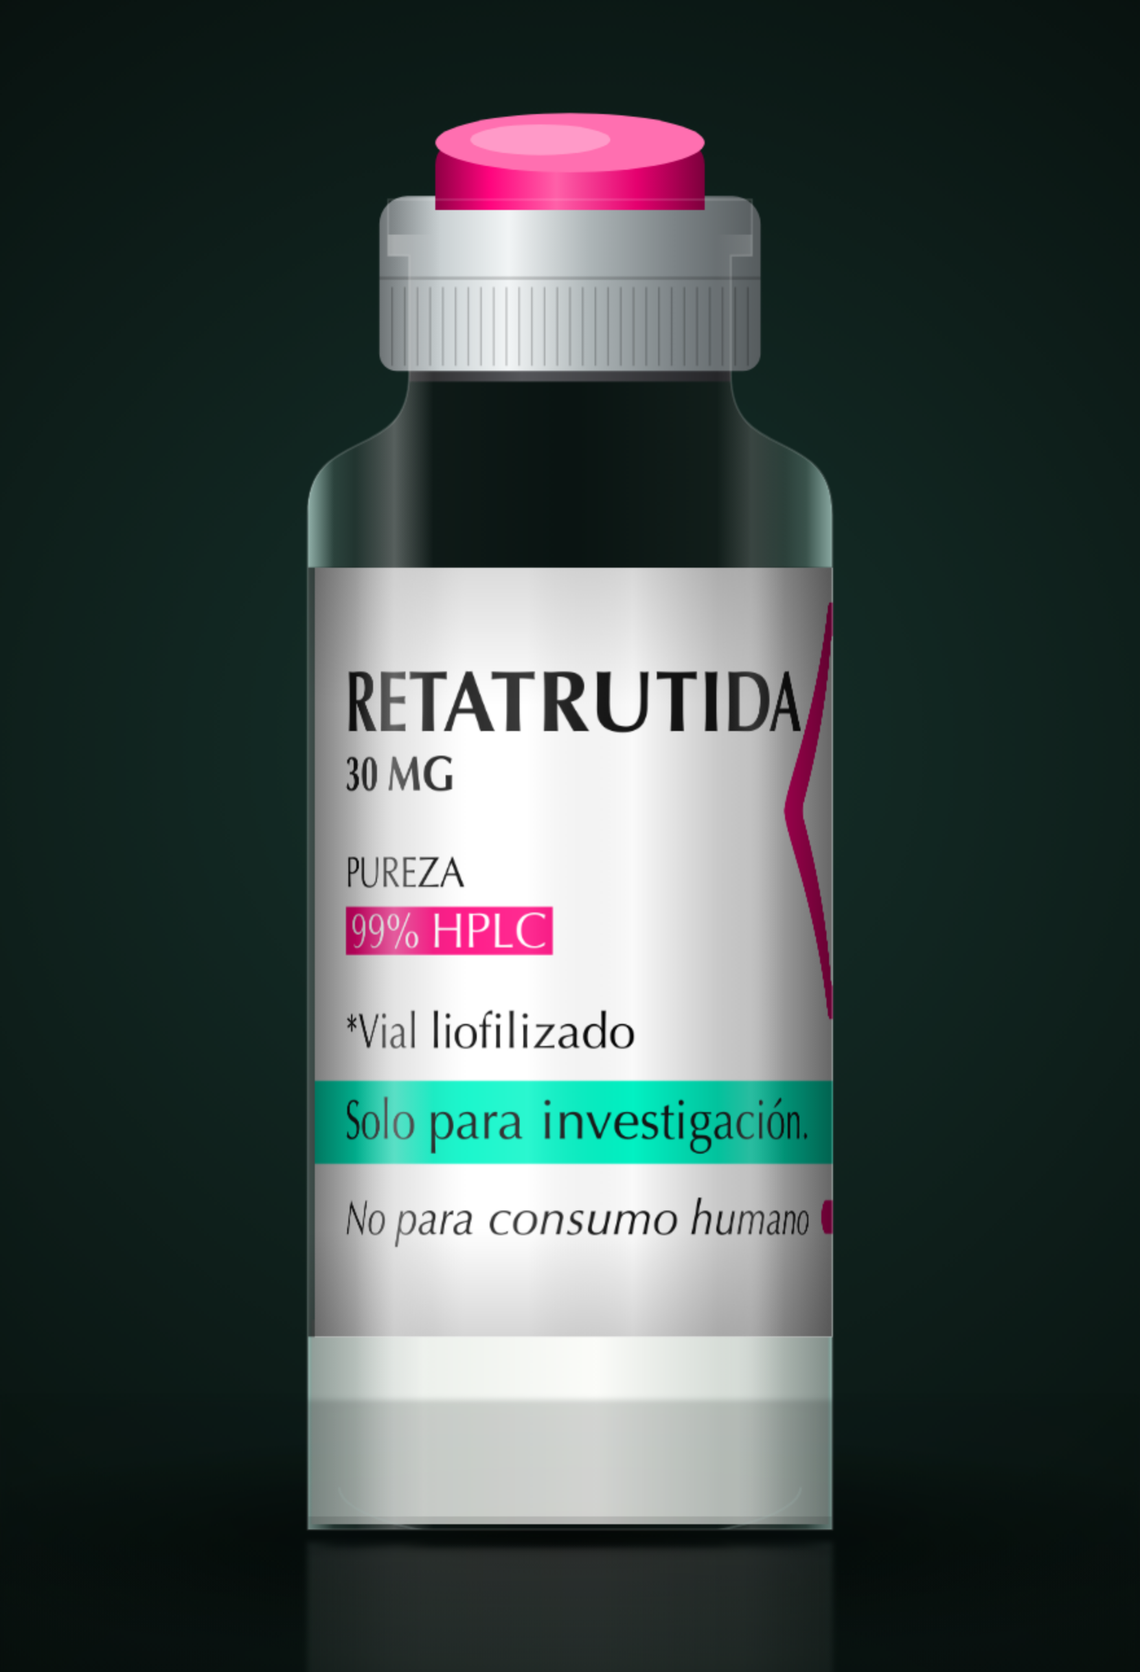
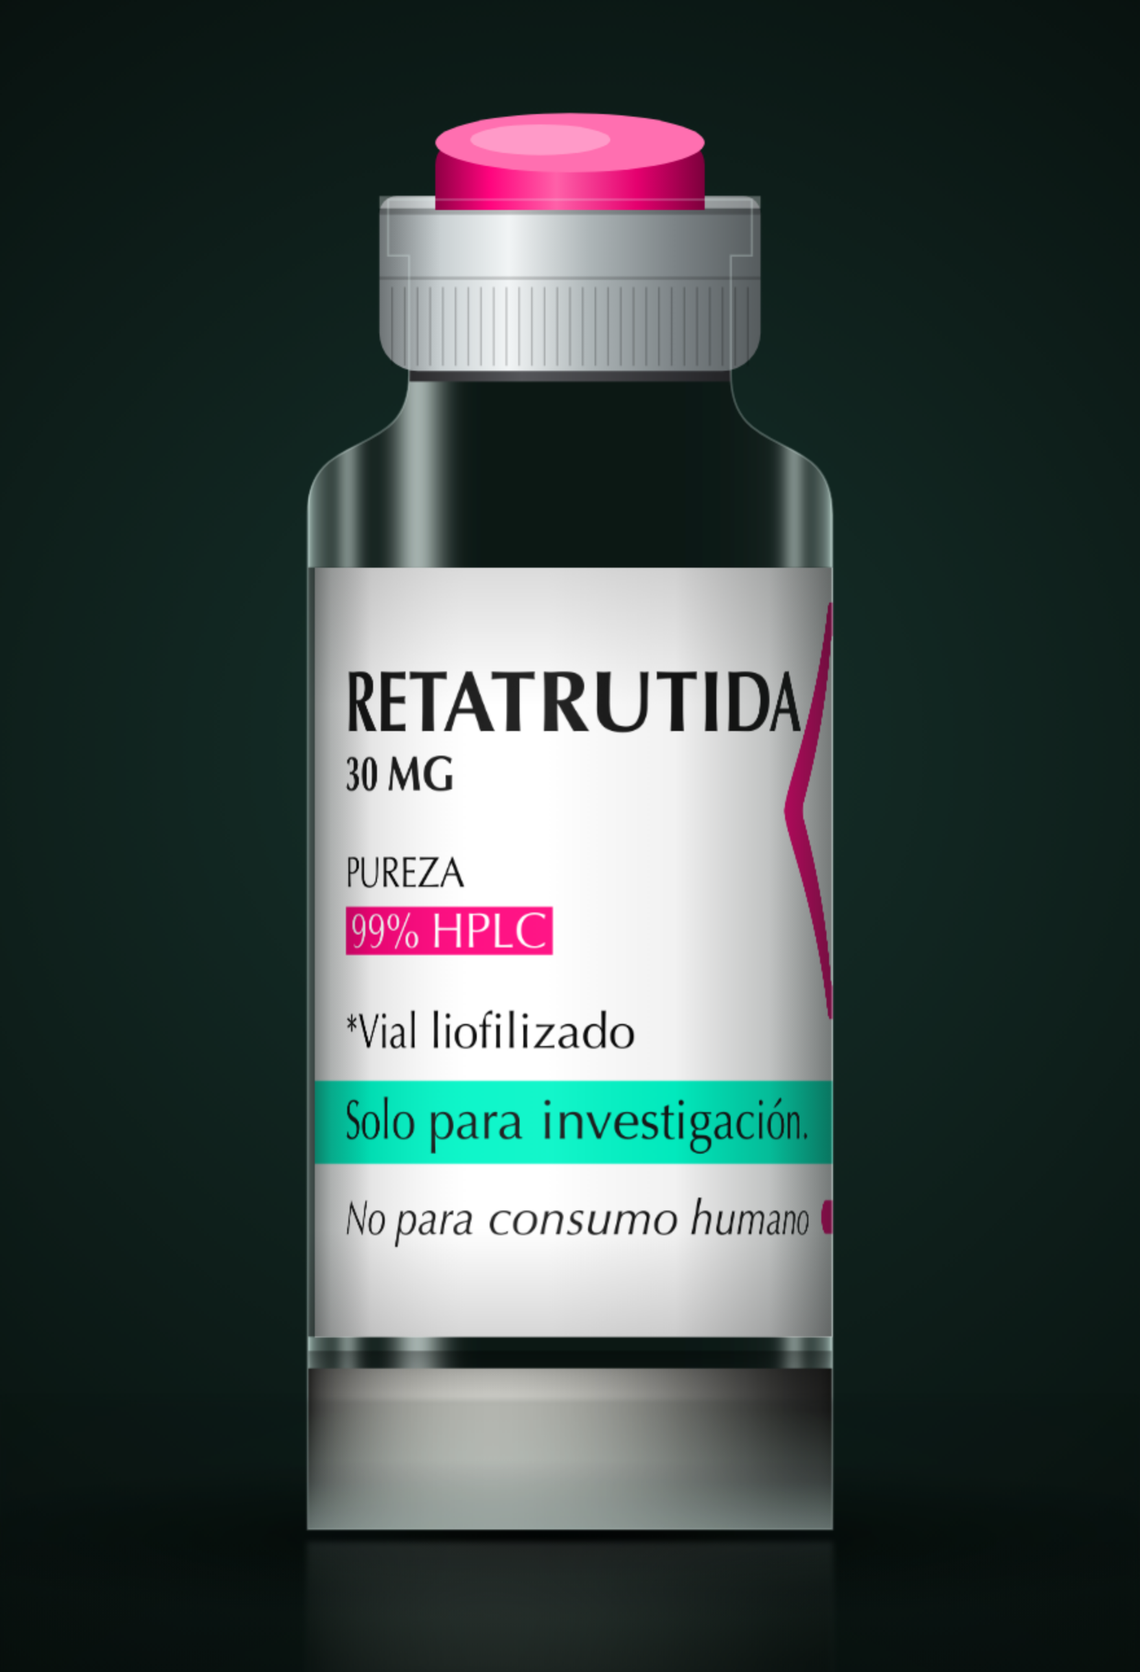
feat(rediseno): shader del hero portado a JS plano y vial más creíble
Hero: el componente de 21st.dev (Neuro Noise, Paper Shaders, Apache-2.0) es
React, y este repo no tiene package.json, Tailwind ni TypeScript, así que
copiarlo a /components/ui no habría compilado nada. El shader no necesita
React: se porta a JS plano con el GLSL idéntico, incluido el empaquetado en
vec4 que lo mantiene bajo el mínimo de uniforms de WebGL1.

Recoloreado a la marca: el preset venía en cian y violeta, ahora va de fondo
de marca a aqua #02F6C8 a magenta #FF047E. Se añade prefers-reduced-motion,
que el original no contempla: con esa preferencia se pinta un fotograma y no
se anima. DPR limitado a 1.5 y techo de 1.4 Mpx, pausa fuera de pantalla y
con la pestaña oculta, y si WebGL falla el canvas se oculta sin romper nada.

Vial: los degradados a ojo se sustituyen por sombreado calculado por columna.
El grosor óptico sale de 1/cos(theta) y el filo del canto de un Fresnel
(1-cos)^3, que es lo que de verdad lee como vidrio; antes parecía plástico
opaco. La etiqueta se aclara a papel mate en vez de cromo, y la torta
liofilizada se apaga tras la pared del vial con canto recto, que es lo
correcto en vista frontal.

Queda anotado en rediseno/react/README.md el estado real del proyecto y cómo
montarlo con shadcn si algún día se hace el front en Next.js.

Claude-Session: https://claude.ai/code/session_01WYKnPW9vsfA4iToczreM7S

diff --git a/rediseno/index.html b/rediseno/index.html
@@ -93,7 +93,12 @@ a{color:inherit}
 .cart .count{position:absolute;top:-6px;right:-6px;min-width:18px;height:18px;padding:0 4px;border-radius:9px;background:var(--accent);color:var(--on-accent);font-family:var(--f-mono);font-size:10px;font-weight:600;display:grid;place-items:center}
 
 /* ── hero ───────────────────────────────────────────────────── */
-.hero{border-bottom:1px solid var(--line);background:linear-gradient(180deg,var(--surface) 0%,var(--paper) 100%)}
+.hero{position:relative;isolation:isolate;overflow:hidden;border-bottom:1px solid var(--line);background:linear-gradient(180deg,var(--surface) 0%,var(--paper) 100%)}
+.shader-bg{position:absolute;inset:0;z-index:-2;display:block;width:100%;height:100%;opacity:.85}
+.shader-scrim{position:absolute;inset:0;z-index:-1;pointer-events:none;
+  background:linear-gradient(100deg,var(--paper) 4%,color-mix(in srgb,var(--paper) 82%,transparent) 34%,color-mix(in srgb,var(--paper) 30%,transparent) 68%,transparent 100%),
+             linear-gradient(0deg,var(--paper) 0%,transparent 26%)}
+.hero .wrap{position:relative;z-index:1}
 .hero .wrap{display:grid;grid-template-columns:1.02fr .98fr;gap:clamp(28px,5vw,64px);align-items:center;padding-block:clamp(44px,7vw,80px)}
 .hero h1{font-size:clamp(38px,5.4vw,64px);font-weight:800;margin-block:16px 18px}
 .hero h1 em{font-style:normal;color:var(--accent-text)}
@@ -332,6 +337,8 @@ footer .fine{font-family:var(--f-mono);font-size:10.5px;opacity:.5;display:flex;
 </nav>
 
 <header class="hero" id="top">
+  <canvas class="shader-bg" id="shader" aria-hidden="true"></canvas>
+  <div class="shader-scrim" aria-hidden="true"></div>
   <div class="wrap">
     <div>
       <span class="eyebrow">Lote PYS-2609-RT · liberado 04 sep 2026</span>
@@ -767,6 +774,127 @@ footer .fine{font-family:var(--f-mono);font-size:10.5px;opacity:.5;display:flex;
   }
   [mg,ml,dose].forEach(function(el){ el && el.addEventListener('input',calc); });
   calc();
+})();
+</script>
+
+<script>
+/* Shader "Neuro Noise" del Shader Builder de 21st.dev (Paper Shaders, Apache-2.0),
+   portado de React a JS plano: el GLSL es idéntico, lo que cambia es el ciclo de
+   vida. Recoloreado a la paleta de PYS: magenta #FF047E y aqua #02F6C8 sobre
+   fondo de marca. Añadido que el original no trae: respeta prefers-reduced-motion. */
+(function(){
+  var canvas = document.getElementById('shader');
+  if (!canvas) return;
+  var gl = canvas.getContext('webgl', { antialias:false, powerPreference:'low-power' });
+  if (!gl) { canvas.style.display = 'none'; return; }
+
+  var VERT = 'attribute vec2 a_position;void main(){gl_Position=vec4(a_position,0.0,1.0);}';
+  var FRAG = [
+  '#ifdef GL_FRAGMENT_PRECISION_HIGH','precision highp float;','#else','precision mediump float;','#endif',
+  'uniform vec3 u_colors[8];',
+  'uniform vec4 u_scene;','uniform vec4 u_shape;','uniform vec4 u_surface;','uniform vec4 u_finish;',
+  'uniform vec4 u_transform;','uniform vec4 u_space;',
+  '#define u_resolution u_scene.xy','#define u_time u_scene.z','#define u_colorCount u_scene.w',
+  '#define u_scale u_shape.x','#define u_intensity u_shape.y','#define u_paramA u_shape.z','#define u_warp u_shape.w',
+  '#define u_detail u_surface.x','#define u_contrast u_surface.y','#define u_brightness u_surface.z','#define u_saturation u_surface.w',
+  '#define u_vignette u_finish.y','#define u_blur u_finish.z','#define u_grain u_finish.w',
+  '#ifdef GL_FRAGMENT_PRECISION_HIGH','#define u_seed u_transform.x','#else','#define u_seed mod(u_transform.x,31.0)','#endif',
+  '#define u_rotate u_transform.y','#define u_drift u_transform.z',
+  '#define u_offset u_space.xy',
+  'float hash21(vec2 p){',
+  '#ifndef GL_FRAGMENT_PRECISION_HIGH','  p=mod(p,31.0);','#endif',
+  '  p=fract(p*vec2(234.34,435.345));p+=dot(p,p+34.23);return fract(p.x*p.y);}',
+  'float grainHash(vec2 p){vec3 p3=fract(vec3(p.xyx)*0.1031);p3+=dot(p3,p3.yzx+33.33);return fract((p3.x+p3.y)*p3.z);}',
+  'float noise(vec2 p){vec2 i=floor(p);vec2 f=fract(p);vec2 u=f*f*(3.0-2.0*f);',
+  '  return mix(mix(hash21(i),hash21(i+vec2(1.0,0.0)),u.x),mix(hash21(i+vec2(0.0,1.0)),hash21(i+vec2(1.0,1.0)),u.x),u.y);}',
+  'float fbm(vec2 p){float v=0.0;float a=0.5;for(int i=0;i<5;i++){v+=a*noise(p);p=p*2.03+vec2(17.0,9.2);a*=0.5;}return v;}',
+  'vec3 palette(float x){float n=max(u_colorCount-1.0,1.0);float f=clamp(x,0.0,1.0)*n;vec3 col=u_colors[0];',
+  '  for(int i=0;i<7;i++){if(float(i)<n)col=mix(col,u_colors[i+1],smoothstep(0.0,1.0,clamp(f-float(i),0.0,1.0)));}return col;}',
+  'vec3 shade(vec2 uv,vec2 p,float t){vec2 q=p*(1.6+u_intensity*2.4);float field=0.0;float weight=0.55;',
+  '  for(int i=0;i<6;i++){float fi=float(i);',
+  '    q+=vec2(sin(q.y*(1.7+fi*0.09)+t*(0.35+fi*0.04)+u_seed),cos(q.x*(1.5+fi*0.11)-t*(0.28+fi*0.03)))*(0.22+u_intensity*0.14);',
+  '    float filaments=abs(sin(q.x+q.y+fi*0.72));field+=weight/(0.08+filaments);weight*=0.62;q=q.yx*vec2(-1.08,1.04);}',
+  '  float glow=1.0-exp(-field*(0.018+u_paramA*0.04));return palette(clamp(glow,0.0,1.0));}',
+  'void main(){vec2 uv=gl_FragCoord.xy/u_resolution.xy;vec2 screenUv=uv;',
+  '  vec2 p=(gl_FragCoord.xy-0.5*u_resolution.xy)/min(u_resolution.x,u_resolution.y);',
+  '  uv=p*min(u_resolution.x,u_resolution.y)/u_resolution.xy+0.5;p*=u_scale;',
+  '  if(abs(u_rotate)>0.0001){float cr=cos(u_rotate),sr=sin(u_rotate);p=mat2(cr,-sr,sr,cr)*p;}',
+  '  p+=u_offset;',
+  '  if(u_drift>0.0001)p+=u_drift*vec2(sin(u_time*0.31),cos(u_time*0.23));',
+  '  if(u_warp>0.0)p+=u_warp*(vec2(fbm(p*u_detail+u_seed),fbm(p*u_detail+vec2(5.2,1.3)))-0.5);',
+  '  vec3 col;',
+  '  if(u_blur>0.0){float e=u_blur;float pe=e*u_scale;vec2 uvE=vec2(e)*min(u_resolution.x,u_resolution.y)/u_resolution.xy;',
+  '    col=shade(uv,p,u_time)*0.36;',
+  '    col+=shade(uv+vec2(uvE.x,0.0),p+vec2(pe,0.0),u_time)*0.16;',
+  '    col+=shade(uv-vec2(uvE.x,0.0),p-vec2(pe,0.0),u_time)*0.16;',
+  '    col+=shade(uv+vec2(0.0,uvE.y),p+vec2(0.0,pe),u_time)*0.16;',
+  '    col+=shade(uv-vec2(0.0,uvE.y),p-vec2(0.0,pe),u_time)*0.16;',
+  '  }else{col=shade(uv,p,u_time);}',
+  '  if(abs(u_contrast-1.0)>0.0001)col=(col-0.5)*u_contrast+0.5;',
+  '  if(abs(u_saturation-1.0)>0.0001){float luma=dot(col,vec3(0.299,0.587,0.114));col=mix(vec3(luma),col,u_saturation);}',
+  '  if(abs(u_brightness)>0.0001)col+=u_brightness;',
+  '  if(u_vignette>0.0001){float vd=length(screenUv-0.5)*1.41421356;col*=1.0-u_vignette*smoothstep(0.35,1.0,vd);}',
+  '  if(u_grain>0.0001)col+=(grainHash(gl_FragCoord.xy+vec2(u_seed*17.0,u_seed*31.0))-0.5)*u_grain;',
+  '  gl_FragColor=vec4(clamp(col,0.0,1.0),1.0);}'
+  ].join('\n');
+
+  function compilar(tipo, src){ var sh=gl.createShader(tipo); gl.shaderSource(sh,src); gl.compileShader(sh); return sh; }
+  var prog=gl.createProgram(), vs=compilar(gl.VERTEX_SHADER,VERT), fs=compilar(gl.FRAGMENT_SHADER,FRAG);
+  gl.attachShader(prog,vs); gl.attachShader(prog,fs); gl.linkProgram(prog);
+  if(!gl.getProgramParameter(prog,gl.LINK_STATUS)){ canvas.style.display='none'; return; }
+  gl.deleteShader(vs); gl.deleteShader(fs); gl.useProgram(prog);
+
+  var buf=gl.createBuffer();
+  gl.bindBuffer(gl.ARRAY_BUFFER,buf);
+  gl.bufferData(gl.ARRAY_BUFFER,new Float32Array([-1,-1,3,-1,-1,3]),gl.STATIC_DRAW);
+  var loc=gl.getAttribLocation(prog,'a_position');
+  gl.enableVertexAttribArray(loc); gl.vertexAttribPointer(loc,2,gl.FLOAT,false,0,0);
+
+  var u = {};
+  ['colors','scene','shape','surface','finish','transform','space'].forEach(function(n){
+    u[n]=gl.getUniformLocation(prog,'u_'+n);
+  });
+
+  // Paleta PYS, en lugar del cian y violeta que trae el preset
+  var COLORES=[[0.016,0.063,0.055],[0.008,0.965,0.784],[1.0,0.016,0.494],[1.0,0.886,0.937],
+               [1.0,0.886,0.937],[1.0,0.886,0.937],[1.0,0.886,0.937],[1.0,0.886,0.937]];
+  var plano=[]; COLORES.forEach(function(c){ plano.push(c[0],c[1],c[2]); });
+  gl.uniform3fv(u.colors,new Float32Array(plano));
+  gl.uniform4f(u.shape, 1.26, 0.35, 0.28, 0.0);      // escala, intensidad, paramA, warp
+  gl.uniform4f(u.surface, 1.824, 1.02, -0.06, 1.15); // detalle, contraste, brillo, saturación
+  gl.uniform4f(u.finish, 0.0, 0.22, 0.0012, 0.075);  // hue, viñeta, blur, grano
+  gl.uniform4f(u.transform, 1.0, 0.0, 0.204, 0.0);   // semilla, rotación, deriva, oklab
+
+  var quieto = matchMedia('(prefers-reduced-motion: reduce)').matches;
+  var inicio = performance.now(), raf = 0, visible = true, enPantalla = true;
+
+  function medir(){
+    var r = canvas.getBoundingClientRect();
+    var dpr = Math.min(window.devicePixelRatio || 1, 1.5);
+    var w = Math.max(1, Math.round(r.width * dpr)), h = Math.max(1, Math.round(r.height * dpr));
+    var tope = Math.min(1, Math.sqrt(1400000 / Math.max(1, w * h)));
+    w = Math.max(1, Math.round(w * tope)); h = Math.max(1, Math.round(h * tope));
+    if (canvas.width !== w || canvas.height !== h){ canvas.width=w; canvas.height=h; gl.viewport(0,0,w,h); }
+  }
+  function pintar(ahora){
+    raf = 0;
+    medir();
+    var t = quieto ? 6.2 : ((ahora - inicio) / 1000) * 0.86;
+    gl.uniform4f(u.scene, canvas.width, canvas.height, t, 4.0);
+    gl.uniform4f(u.space, 0, 0, 0, 0);
+    gl.drawArrays(gl.TRIANGLES, 0, 3);
+    if (!quieto && visible && enPantalla) raf = requestAnimationFrame(pintar);
+  }
+  function arrancar(){ if (raf === 0 && visible && enPantalla) raf = requestAnimationFrame(pintar); }
+  function parar(){ if (raf !== 0){ cancelAnimationFrame(raf); raf = 0; } }
+
+  new ResizeObserver(function(){ medir(); if (quieto) requestAnimationFrame(pintar); else arrancar(); }).observe(canvas);
+  new IntersectionObserver(function(e){ enPantalla = e[0] ? e[0].isIntersecting : true; enPantalla ? arrancar() : parar(); }).observe(canvas);
+  document.addEventListener('visibilitychange', function(){
+    visible = document.visibilityState === 'visible';
+    visible ? arrancar() : parar();
+  });
+  requestAnimationFrame(pintar);
 })();
 </script>
 

diff --git a/rediseno/mocks/generar-vial.js b/rediseno/mocks/generar-vial.js
@@ -29,9 +29,9 @@ window.render = () => new Promise(res => {
 
     // ── sombra proyectada
     g.save();
-    g.translate(cx, base + 14); g.scale(1, 0.17);
+    g.translate(cx, base + 8); g.scale(1, 0.12);
     const sh = g.createRadialGradient(0, 0, 10, 0, 0, R * 2.6);
-    sh.addColorStop(0, 'rgba(0,0,0,.72)'); sh.addColorStop(1, 'rgba(0,0,0,0)');
+    sh.addColorStop(0, 'rgba(0,0,0,.85)'); sh.addColorStop(.45, 'rgba(0,0,0,.36)'); sh.addColorStop(1, 'rgba(0,0,0,0)');
     g.fillStyle = sh; g.beginPath(); g.arc(0, 0, R * 2.6, 0, 7); g.fill();
     g.restore();
 
@@ -47,30 +47,58 @@ window.render = () => new Promise(res => {
     cuerpo.bezierCurveTo(cx + rNeck, yBody - mm(1.4), cx + R, yNeck + mm(1.4), cx + R, yBody);
     cuerpo.lineTo(cx + R, base); cuerpo.closePath();
 
+    // ── vidrio: sombreado calculado por columna en vez de degradados a ojo.
+    // cos(theta) da el grosor óptico (mas camino = mas tinte) y el Fresnel
+    // (1-cos)^3 da el filo brillante del canto, que es lo que lee como vidrio.
     g.save(); g.clip(cuerpo);
-    const vidrio = g.createLinearGradient(cx - R, 0, cx + R, 0);
-    vidrio.addColorStop(0, '#93B2AB'); vidrio.addColorStop(.05, '#2C433D');
-    vidrio.addColorStop(.16, '#101C19'); vidrio.addColorStop(.5, '#0A1412');
-    vidrio.addColorStop(.84, '#13201C'); vidrio.addColorStop(.95, '#3A534C');
-    vidrio.addColorStop(1, '#8AA9A2');
-    g.fillStyle = vidrio; g.fill(cuerpo);
+    const bgCol = [10, 20, 17];         // el fondo que se ve a través del vial
+    const tint = [22, 46, 40];          // vidrio tipo I con tinte verdoso
+    const specAng = -0.62;              // llave a la izquierda
+    for (let i = 0; i < R * 2; i++) {
+      const x = i - R + .5, t = Math.max(-.999, Math.min(.999, x / R));
+      const cosT = Math.sqrt(1 - t * t);
+      const phi = Math.asin(t);
+      const grosor = Math.min(1 / Math.max(cosT, .05), 9) / 9;      // 0..1
+      const fres = Math.pow(1 - cosT, 3);
+      const spec = Math.pow(Math.max(0, Math.cos((phi - specAng) * 2.6)), 22);
+      const spec2 = Math.pow(Math.max(0, Math.cos((phi - 1.02) * 3.1)), 30);
+      const c = [0, 1, 2].map(k => {
+        let v = bgCol[k] + (tint[k] - bgCol[k]) * Math.pow(grosor, .8);
+        v += fres * 190;
+        v += spec * 150 + spec2 * 90;
+        return Math.round(Math.max(0, Math.min(255, v)));
+      });
+      g.fillStyle = 'rgb(' + c[0] + ',' + c[1] + ',' + c[2] + ')';
+      g.fillRect(cx + x - .5, yAt(38), 1.6, mm(38));
+    }
 
-    // torta liofilizada en el fondo
-    const yCake = yAt(6.2);
-    const cake = g.createLinearGradient(cx - R, 0, cx + R, 0);
-    cake.addColorStop(0, '#8E9B96'); cake.addColorStop(.22, '#EDF1EC');
-    cake.addColorStop(.55, '#FBFCF9'); cake.addColorStop(.82, '#D2D9D3'); cake.addColorStop(1, '#7F8C87');
-    g.fillStyle = cake;
-    g.beginPath();
-    g.moveTo(cx - R + 3, base - 4);
-    g.lineTo(cx - R + 3, yCake + 6);
-    g.bezierCurveTo(cx - R * .4, yCake - 7, cx + R * .35, yCake + 9, cx + R - 3, yCake + 2);
-    g.lineTo(cx + R - 3, base - 4); g.closePath(); g.fill();
-    g.fillStyle = 'rgba(0,0,0,.12)';
-    g.fillRect(cx - R, base - 10, R * 2, 10);
-    // pared trasera vista a través del vidrio
-    g.strokeStyle = 'rgba(190,220,212,.22)'; g.lineWidth = 2;
-    g.beginPath(); g.ellipse(cx, base - mm(1.2), R * .88, mm(1.6), 0, 0, Math.PI); g.stroke();
+    // torta liofilizada: masa opaca, mate, con el borde superior irregular
+    const yCake = yAt(4.6);
+    for (let i = 0; i < R * 2; i++) {
+      const x = i - R + .5, t = Math.max(-.999, Math.min(.999, x / R));
+      const cosT = Math.sqrt(1 - t * t);
+      const lam = .16 + .84 * Math.pow(Math.max(0, Math.cos(Math.asin(t) + .42)), 1.8);
+      const velo = Math.pow(cosT, .55);                    // el vidrio la apaga en los cantos
+      const v = Math.round(Math.max(0, Math.min(255, (196 * lam + 14) * velo + 10)));
+      g.fillStyle = 'rgb(' + v + ',' + v + ',' + Math.round(v * .97) + ')';
+      g.fillRect(cx + x - .5, yCake, 1.6, base - yCake);
+    }
+    // canto superior de la torta
+    const canto = g.createLinearGradient(0, yCake - mm(.5), 0, yCake + mm(1.1));
+    canto.addColorStop(0, 'rgba(0,0,0,.34)'); canto.addColorStop(.45, 'rgba(0,0,0,.16)');
+    canto.addColorStop(1, 'rgba(0,0,0,0)');
+    g.fillStyle = canto; g.fillRect(cx - R, yCake - mm(.5), R * 2, mm(1.6));
+
+    // sombra de contacto de la torta contra el vidrio
+    const bajo = g.createLinearGradient(0, base - mm(2), 0, base);
+    bajo.addColorStop(0, 'rgba(0,0,0,0)'); bajo.addColorStop(1, 'rgba(0,0,0,.30)');
+    g.fillStyle = bajo; g.fillRect(cx - R, base - mm(2), R * 2, mm(2));
+
+    // fondo grueso del vial: concentra luz justo sobre la base
+    const fondo = g.createLinearGradient(0, base - mm(3.4), 0, base);
+    fondo.addColorStop(0, 'rgba(214,240,234,0)'); fondo.addColorStop(.6, 'rgba(214,240,234,.22)');
+    fondo.addColorStop(1, 'rgba(214,240,234,.52)');
+    g.fillStyle = fondo; g.fillRect(cx - R, base - mm(3.4), R * 2, mm(3.4));
     g.restore();
 
     // ── etiqueta envuelta: para cada columna, phi = asin(x/R) y u = 0.5 + phi·CIRC/(2pi·LW)
@@ -90,10 +118,10 @@ window.render = () => new Promise(res => {
     }
     // luz cilíndrica sobre la etiqueta
     const luz = g.createLinearGradient(cx - R, 0, cx + R, 0);
-    luz.addColorStop(0, 'rgba(0,0,0,.55)'); luz.addColorStop(.10, 'rgba(0,0,0,.28)');
-    luz.addColorStop(.30, 'rgba(255,255,255,.10)'); luz.addColorStop(.42, 'rgba(255,255,255,.16)');
-    luz.addColorStop(.62, 'rgba(0,0,0,.02)'); luz.addColorStop(.86, 'rgba(0,0,0,.30)');
-    luz.addColorStop(1, 'rgba(0,0,0,.60)');
+    luz.addColorStop(0, 'rgba(18,26,24,.62)'); luz.addColorStop(.045, 'rgba(18,26,24,.34)');
+    luz.addColorStop(.12, 'rgba(0,0,0,.10)'); luz.addColorStop(.30, 'rgba(255,255,255,.05)');
+    luz.addColorStop(.46, 'rgba(255,255,255,.07)'); luz.addColorStop(.70, 'rgba(0,0,0,.05)');
+    luz.addColorStop(.88, 'rgba(16,24,22,.26)'); luz.addColorStop(1, 'rgba(16,24,22,.58)');
     g.fillStyle = luz; g.fillRect(cx - R, yLab, R * 2, hLab);
     const vert = g.createLinearGradient(0, yLab, 0, yLab + hLab);
     vert.addColorStop(0, 'rgba(0,0,0,.14)'); vert.addColorStop(.18, 'rgba(0,0,0,0)');
@@ -114,7 +142,12 @@ window.render = () => new Promise(res => {
     alu.addColorStop(0, '#6E7476'); alu.addColorStop(.16, '#C9D0D2'); alu.addColorStop(.34, '#F2F5F6');
     alu.addColorStop(.55, '#AEB6B8'); alu.addColorStop(.78, '#7C8386'); alu.addColorStop(1, '#565C5E');
     g.fillStyle = alu;
-    g.beginPath(); g.roundRect(cx - rSeal, ySeal, rSeal * 2, hSeal, [mm(.8), mm(.8), mm(.5), mm(.5)]); g.fill();
+    g.beginPath(); g.roundRect(cx - rSeal, ySeal, rSeal * 2, hSeal, [mm(.5), mm(.5), mm(1.1), mm(1.1)]); g.fill();
+    // reborde superior del engaste
+    g.fillStyle = 'rgba(255,255,255,.30)';
+    g.fillRect(cx - rSeal, ySeal, rSeal * 2, mm(.35));
+    g.fillStyle = 'rgba(0,0,0,.22)';
+    g.fillRect(cx - rSeal, ySeal + mm(.35), rSeal * 2, mm(.18));
     g.strokeStyle = 'rgba(0,0,0,.22)'; g.lineWidth = 1.3;
     for (let i = 1; i < 30; i++) {
       const px = cx - rSeal + (rSeal * 2) * (i / 30);
@@ -135,18 +168,7 @@ window.render = () => new Promise(res => {
     g.fillStyle = 'rgba(255,255,255,.30)'; g.beginPath(); g.arc(-rFlip * .22, -rFlip * .1, rFlip * .52, 0, 7); g.fill();
     g.restore();
 
-    // ── brillos del vidrio por encima de todo
-    g.save(); g.clip(cuerpo);
-    const b1 = g.createLinearGradient(cx - R * .82, 0, cx - R * .52, 0);
-    b1.addColorStop(0, 'rgba(255,255,255,0)'); b1.addColorStop(.5, 'rgba(255,255,255,.30)');
-    b1.addColorStop(1, 'rgba(255,255,255,0)');
-    g.fillStyle = b1; g.fillRect(cx - R * .82, yAt(37), R * .30, mm(37));
-    const b2 = g.createLinearGradient(cx + R * .56, 0, cx + R * .82, 0);
-    b2.addColorStop(0, 'rgba(255,255,255,0)'); b2.addColorStop(.5, 'rgba(255,255,255,.16)');
-    b2.addColorStop(1, 'rgba(255,255,255,0)');
-    g.fillStyle = b2; g.fillRect(cx + R * .56, yAt(37), R * .26, mm(37));
-    g.restore();
-    g.strokeStyle = 'rgba(255,255,255,.16)'; g.lineWidth = 1.5; g.stroke(cuerpo);
+    g.strokeStyle = 'rgba(226,244,240,.28)'; g.lineWidth = 1.6; g.stroke(cuerpo);
 
     // ── reflejo en la superficie
     g.save();

diff --git a/rediseno/react/README.md b/rediseno/react/README.md
@@ -1,0 +1,64 @@
+# Hero con shader — integración
+
+## Estado del proyecto (verificado, no supuesto)
+
+El prompt de 21st.dev asume un proyecto React con shadcn, Tailwind y TypeScript.
+Este repositorio **no lo es**:
+
+| Requisito | Aquí |
+|---|---|
+| `components.json` (shadcn) | no existe |
+| `tailwind.config.*` | no existe |
+| `tsconfig.json` | no existe |
+| `package.json` | no existe |
+| Carpeta `/components/ui` | no existe |
+
+Es una app Flask en Python más un prototipo HTML de una sola página. Copiar el
+`.tsx` a `/components/ui` no habría hecho nada: no hay nada que lo compile.
+
+## Lo que se hizo en su lugar
+
+El shader **no necesita React**. Es un `<canvas>` con WebGL y un fragment shader;
+el componente de React solo aporta el ciclo de vida (montar, observar, limpiar).
+Se portó a JS plano dentro de `rediseno/index.html`:
+
+- **El GLSL es idéntico**, incluido el empaquetado en 7 `vec4` que mantiene el
+  shader por debajo del mínimo garantizado de uniforms de WebGL1.
+- **Recoloreado a la paleta de PYS**: el preset venía en cian y violeta. Ahora va
+  de fondo de marca a aqua `#02F6C8` a magenta `#FF047E`.
+- **`prefers-reduced-motion`**: el original no lo contempla. Aquí, con esa
+  preferencia activa, se pinta **un solo fotograma** y no se anima.
+- DPR limitado a 1.5 y techo de 1.4 Mpx (el original usa 2 y 2 Mpx).
+- Pausa fuera de pantalla y con la pestaña oculta, igual que el original.
+- Si WebGL no está disponible o el programa no enlaza, el canvas se oculta y el
+  hero queda con su fondo normal.
+
+## Si algún día se monta el front en Next.js
+
+Ahí sí aplica el prompt tal cual:
+
+```bash
+npx create-next-app@latest pys-front --typescript --tailwind --app
+cd pys-front
+npx shadcn@latest init
+```
+
+`shadcn init` crea `components.json` y fija los alias. El componente va en
+`components/ui/hero-fusion-web.tsx`, y **la carpeta importa**: `components.json`
+resuelve `@/components/ui` a esa ruta, así que los componentes que instale el CLI
+y los que pegues a mano tienen que convivir ahí o los imports `@/components/ui/…`
+no resuelven.
+
+## Advertencia de rendimiento, que sigue en pie
+
+Un shader a pantalla completa consume GPU de forma continua. Por eso aquí:
+
+- vive **solo en el hero**, no de fondo de toda la página;
+- se detiene al salir de pantalla;
+- respeta `prefers-reduced-motion`.
+
+En un ecommerce conviene medirlo en un Android de gama media antes de darlo por
+bueno: el INP y el consumo de batería no salen en el Lighthouse de escritorio.
+
+Shader original: Shader Builder de 21st.dev sobre Paper Shaders (Apache-2.0),
+https://shaders.paper.design/neuro-noise
